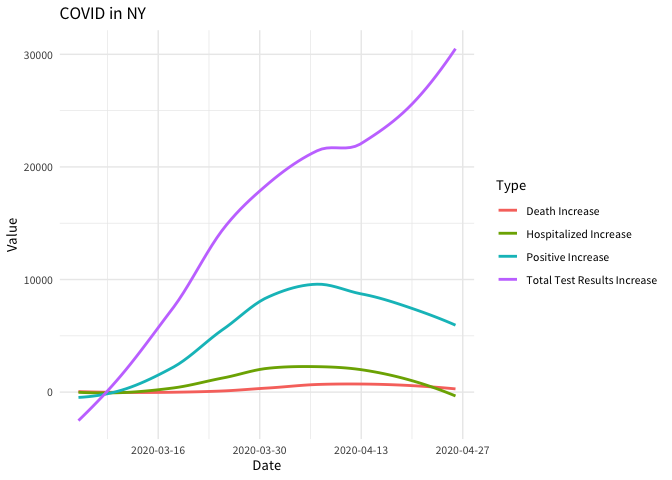
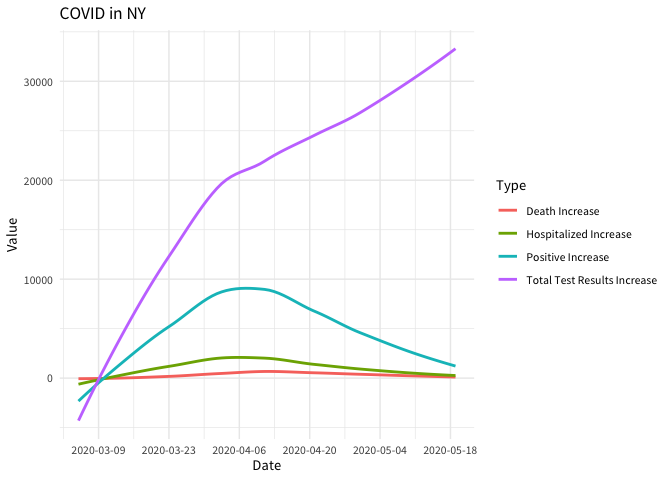
version 0.1.6

diff --git a/README.md b/README.md
@@ -41,7 +41,7 @@ get_us_current()
 #> # A tibble: 1 x 18
 #>   positive negative pending hospitalized_cu… hospitalized_cu… in_icu_currently
 #>      <int>    <int>   <int>            <int>            <int>            <int>
-#> 1   959056  4482023    4445            55030            95810            14831
+#> 1  1520778 10713209    2944            41174           159634             9829
 #> # … with 12 more variables: in_icu_cumulative <int>,
 #> #   on_ventilator_currently <int>, on_ventilator_cumulative <int>,
 #> #   recovered <int>, hash <chr>, last_modified <chr>, death <int>,
@@ -56,16 +56,16 @@ get_states_current()
 #> # A tibble: 56 x 30
 #>    state positive positive_score negative_score negative_regula…
 #>    <chr>    <int>          <int>          <int>            <int>
-#>  1 AK         341              1              1                1
-#>  2 AL        6270              1              1                0
-#>  3 AR        2941              1              1                1
-#>  4 AZ        6526              1              1                0
-#>  5 CA       42164              1              1                0
-#>  6 CO       12968              1              1                1
-#>  7 CT       25269              1              1                1
-#>  8 DC        3841              1              1                1
-#>  9 DE        4034              1              1                1
-#> 10 FL       31528              1              1                1
+#>  1 AK         399              1              1                1
+#>  2 AL       12376              1              1                0
+#>  3 AR        4923              1              1                1
+#>  4 AZ       14566              1              1                0
+#>  5 CA       81795              1              1                0
+#>  6 CO       22202              1              1                1
+#>  7 CT       38430              1              1                1
+#>  8 DC        7434              1              1                1
+#>  9 DE        8037              1              1                1
+#> 10 FL       46944              1              1                1
 #> # … with 46 more rows, and 25 more variables: commercial_score <int>,
 #> #   grade <chr>, score <int>, notes <chr>, data_quality_grade <chr>,
 #> #   negative <int>, pending <int>, hospitalized_currently <int>,
@@ -84,15 +84,16 @@ get_states_daily(
   state = "NY", 
   date = "2020-03-17"
 )
-#> # A tibble: 1 x 25
+#> # A tibble: 1 x 27
 #>   date       state positive negative pending hospitalized_cu… hospitalized_cu…
-#>   <date>     <chr>    <int>    <int> <lgl>   <lgl>            <lgl>           
-#> 1 2020-03-17 NY        1700     5506 NA      NA               NA              
-#> # … with 18 more variables: in_icu_currently <lgl>, in_icu_cumulative <lgl>,
-#> #   on_ventilator_currently <lgl>, on_ventilator_cumulative <lgl>,
-#> #   recovered <lgl>, hash <chr>, date_checked <dttm>, death <int>,
-#> #   hospitalized <lgl>, total <int>, total_test_results <int>, fips <chr>,
-#> #   death_increase <int>, hospitalized_increase <int>, negative_increase <int>,
+#>   <date>     <chr>    <int>    <int>   <int>            <int>            <int>
+#> 1 2020-03-17 NY        1700     5506      NA              325               NA
+#> # … with 20 more variables: in_icu_currently <int>, in_icu_cumulative <int>,
+#> #   on_ventilator_currently <int>, on_ventilator_cumulative <int>,
+#> #   recovered <int>, data_quality_grade <chr>, last_update <dttm>, hash <chr>,
+#> #   date_checked <dttm>, death <int>, hospitalized <int>, total <int>,
+#> #   total_test_results <int>, fips <chr>, death_increase <int>,
+#> #   hospitalized_increase <int>, negative_increase <int>,
 #> #   positive_increase <int>, total_test_results_increase <int>,
 #> #   request_datetime <dttm>
 ```
@@ -101,20 +102,20 @@ For data in long format:
 
 ``` r
 (dat <- refresh_covid19us())
-#> # A tibble: 55,803 x 7
+#> # A tibble: 80,123 x 7
 #>    date       location location_type location_code location_code_t… data_type
 #>    <date>     <chr>    <chr>         <chr>         <chr>            <chr>    
-#>  1 2020-04-26 AK       state         02            fips_code        positive 
-#>  2 2020-04-26 AK       state         02            fips_code        negative 
-#>  3 2020-04-26 AK       state         02            fips_code        pending  
-#>  4 2020-04-26 AK       state         02            fips_code        hospital…
-#>  5 2020-04-26 AK       state         02            fips_code        hospital…
-#>  6 2020-04-26 AK       state         02            fips_code        in_icu_c…
-#>  7 2020-04-26 AK       state         02            fips_code        in_icu_c…
-#>  8 2020-04-26 AK       state         02            fips_code        on_venti…
-#>  9 2020-04-26 AK       state         02            fips_code        on_venti…
-#> 10 2020-04-26 AK       state         02            fips_code        recovered
-#> # … with 55,793 more rows, and 1 more variable: value <int>
+#>  1 2020-05-19 AK       state         02            fips_code        positive 
+#>  2 2020-05-19 AK       state         02            fips_code        negative 
+#>  3 2020-05-19 AK       state         02            fips_code        pending  
+#>  4 2020-05-19 AK       state         02            fips_code        hospital…
+#>  5 2020-05-19 AK       state         02            fips_code        hospital…
+#>  6 2020-05-19 AK       state         02            fips_code        in_icu_c…
+#>  7 2020-05-19 AK       state         02            fips_code        in_icu_c…
+#>  8 2020-05-19 AK       state         02            fips_code        on_venti…
+#>  9 2020-05-19 AK       state         02            fips_code        on_venti…
+#> 10 2020-05-19 AK       state         02            fips_code        recovered
+#> # … with 80,113 more rows, and 1 more variable: value <int>
 ```
 
 Which can be easier to plot
